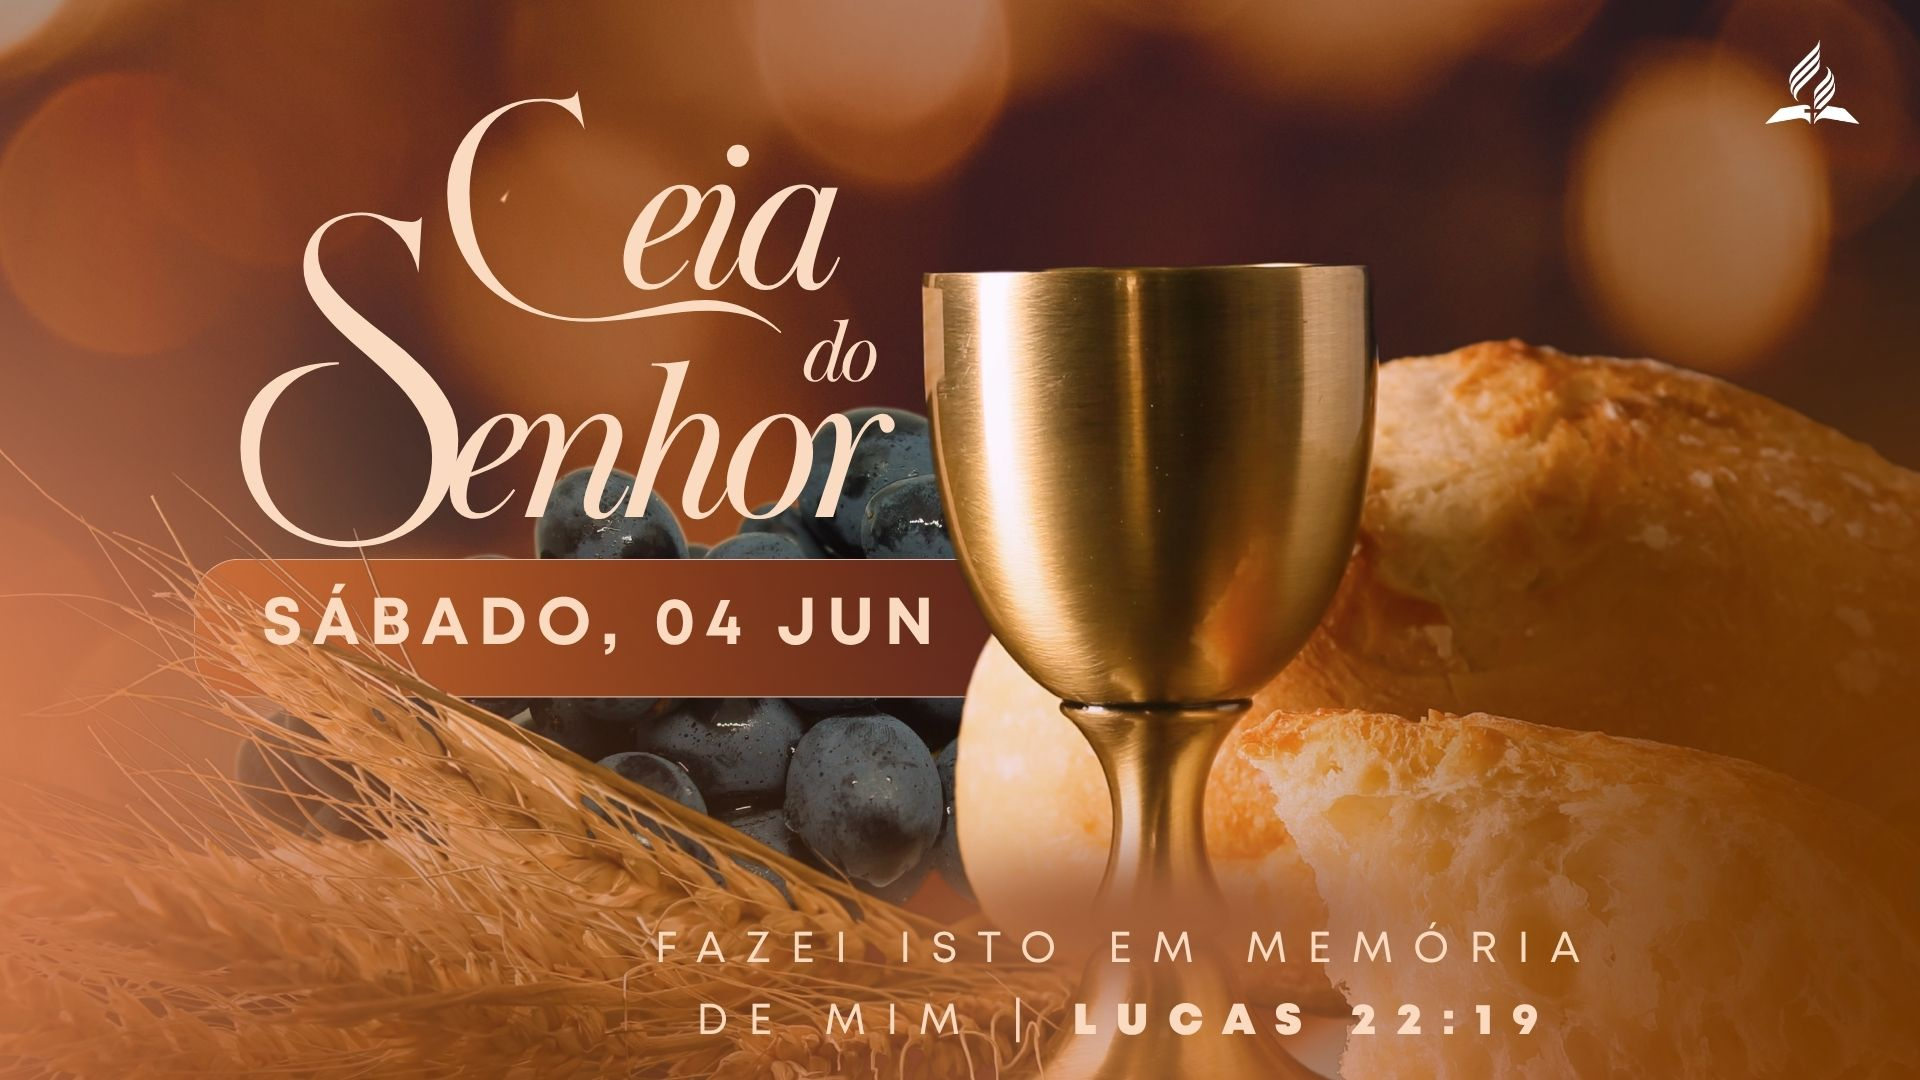
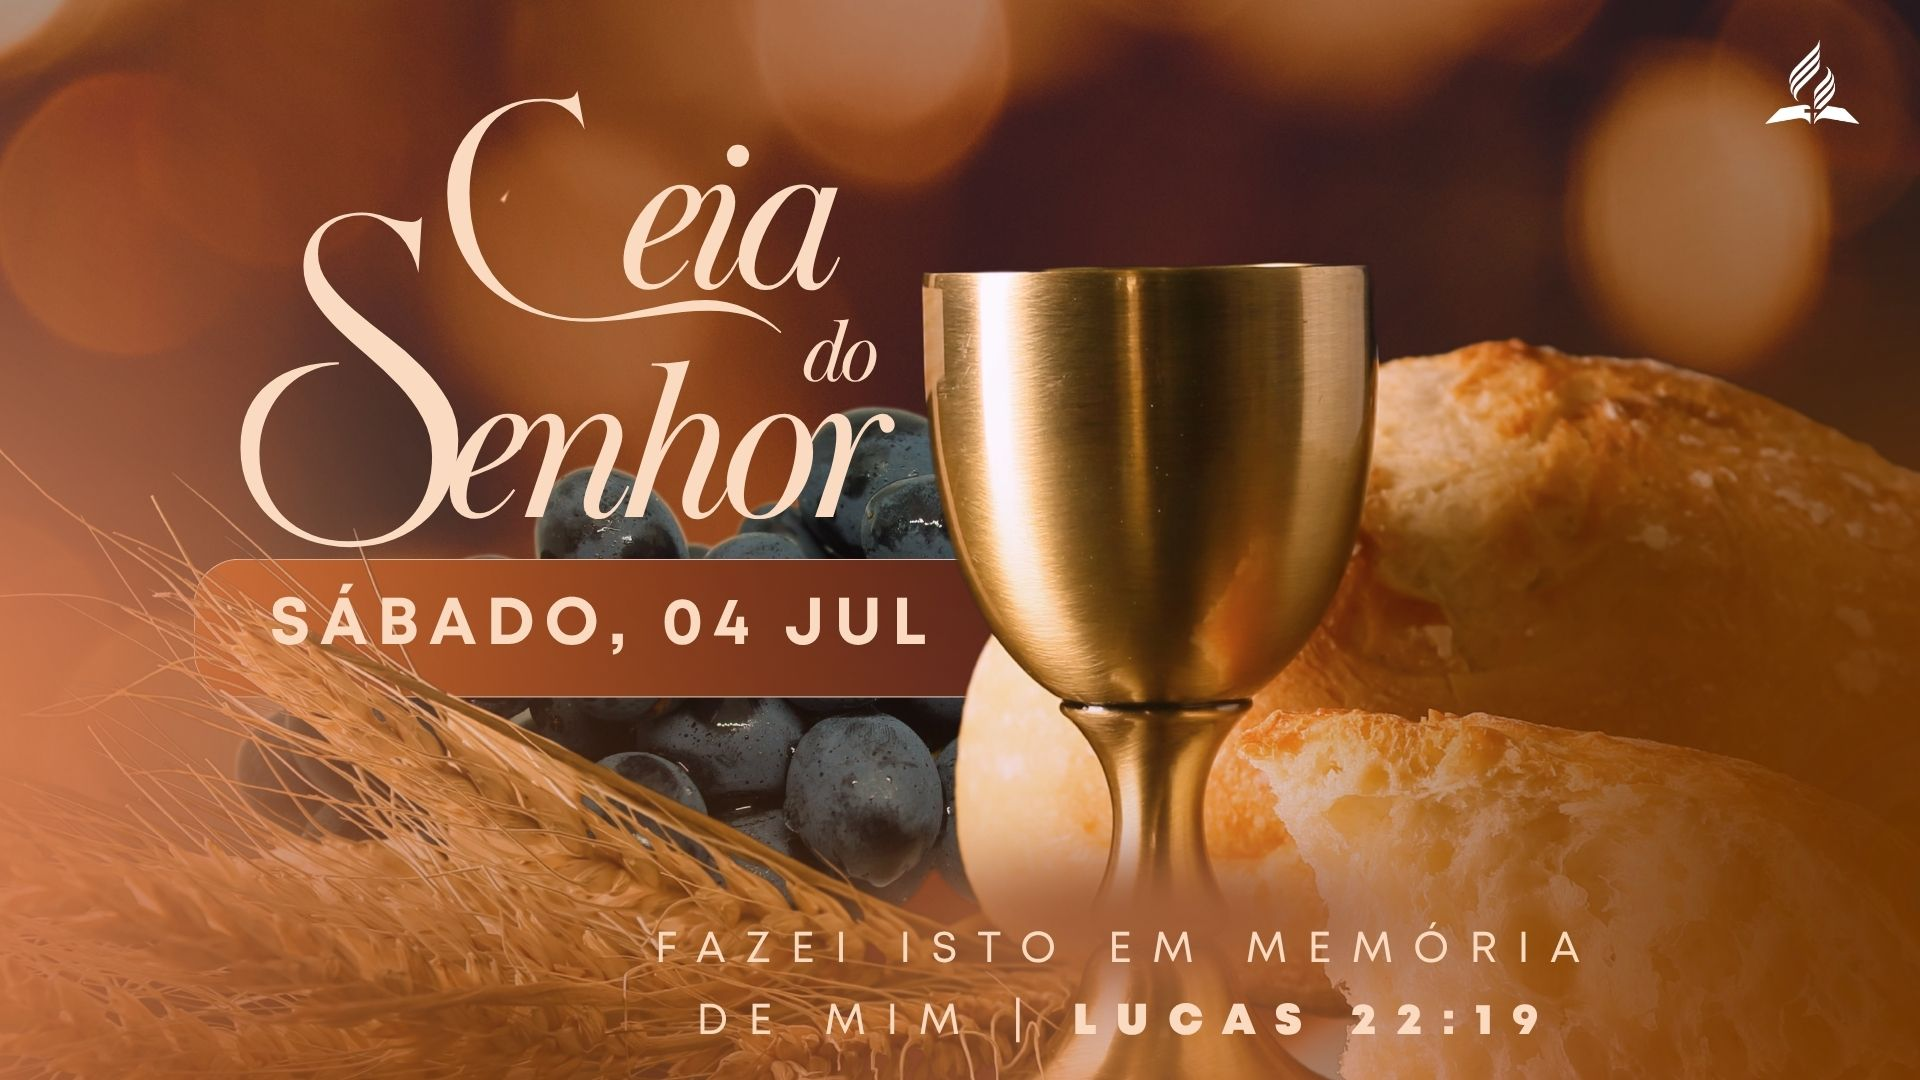
Ceia

Changed region(s): [[0.125, 0.55, 0.5, 0.6111]]

diff --git a/resources/views/pages/boletim-digital.blade.php b/resources/views/pages/boletim-digital.blade.php
@@ -108,7 +108,7 @@
             'type' => 'image',
             'src' => $boletimBase . '/Palestra 13-6- 15h.jpg',
             'alt' => 'Palestras do Fim de Semana da Família — sábado',
-            'title' => 'Palestra Sábado FSF',
+            'title' => 'Palestra Sábado',
             'text' => 'No sábado, 13 de junho, às 09h teremos o Culto da Família e, às 15h, teremos palestras imperdíveis para casais e interessados em casar com os temas Comunicação Sem Estresse e Homens versus Mulheres: quem não entende quem?',
         ],
         [